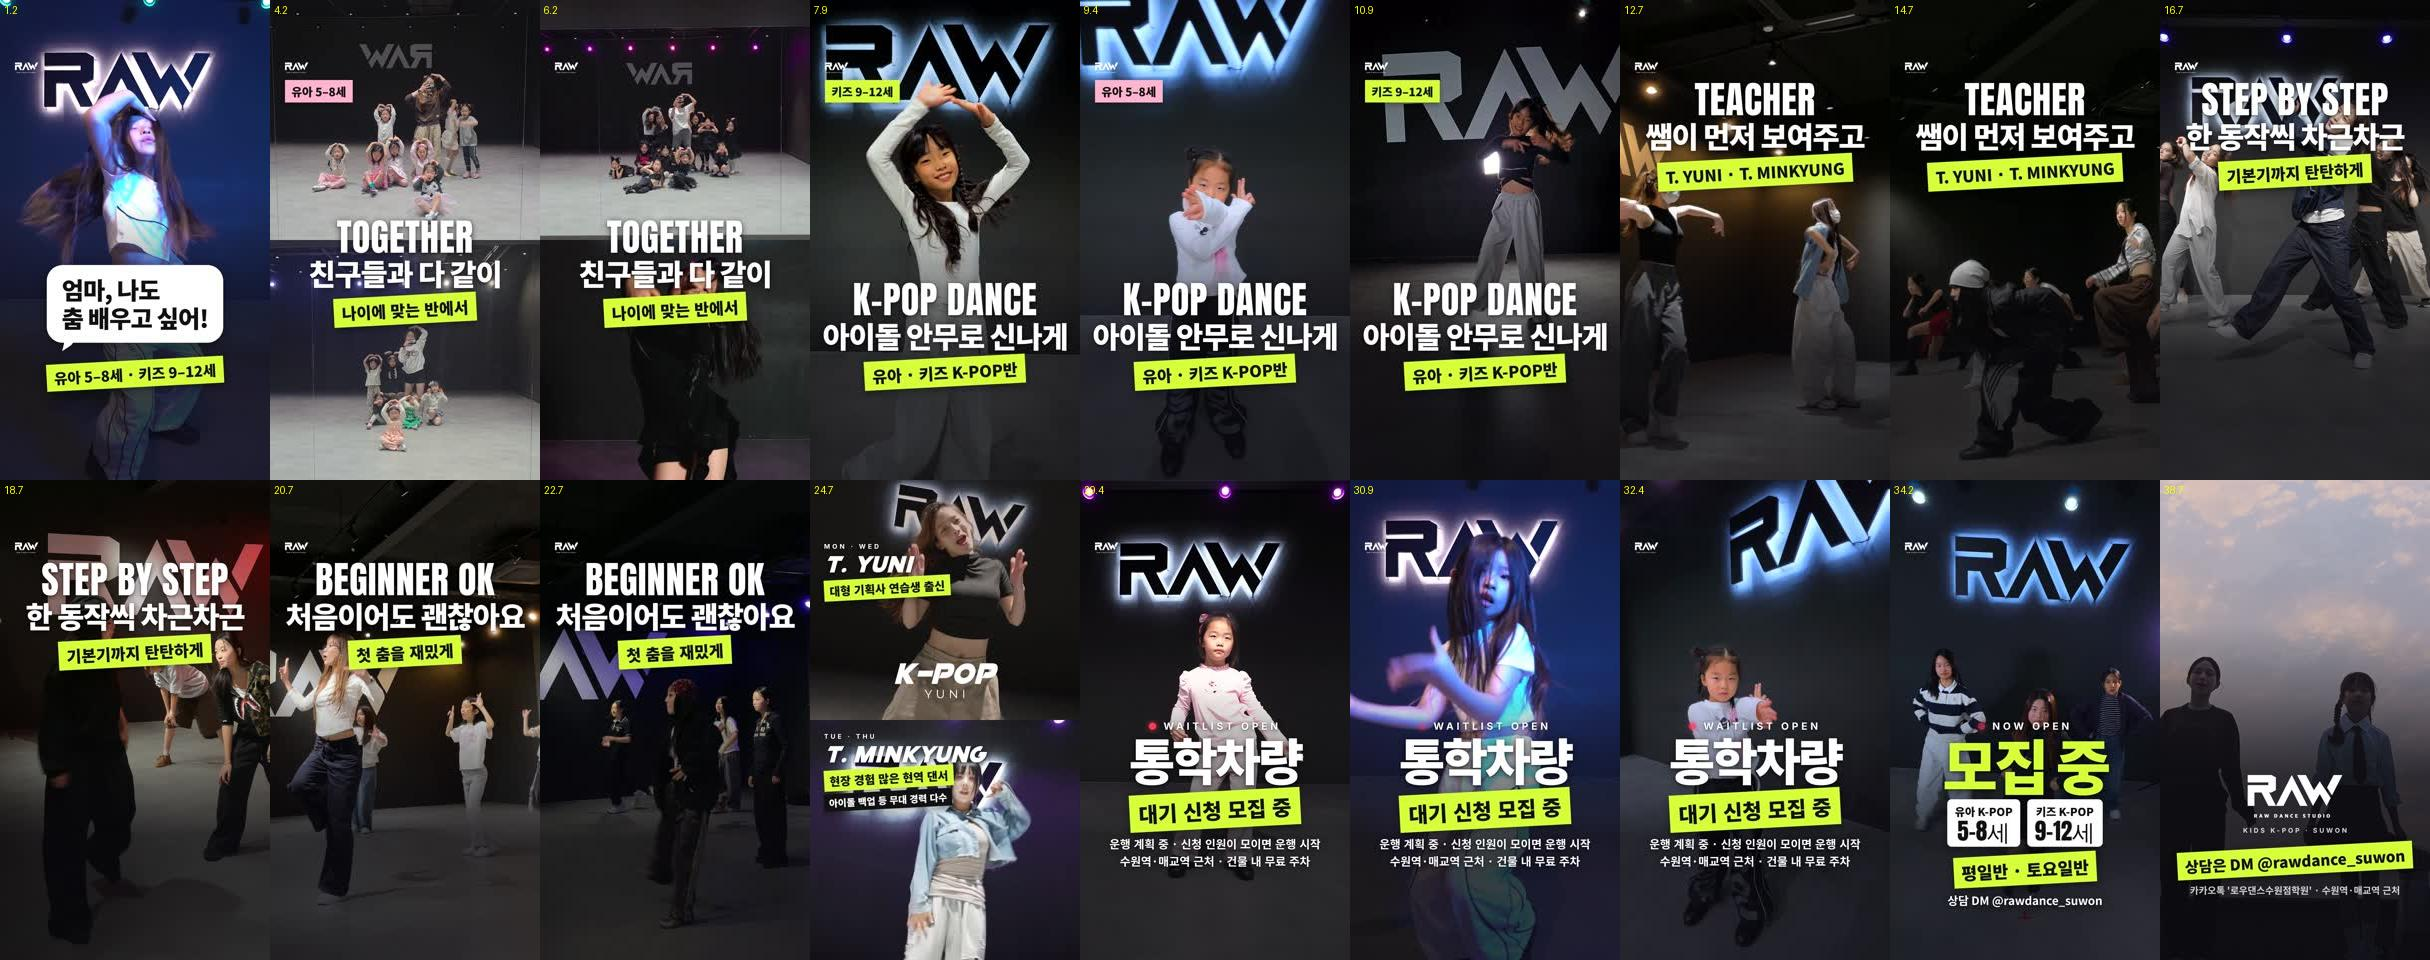
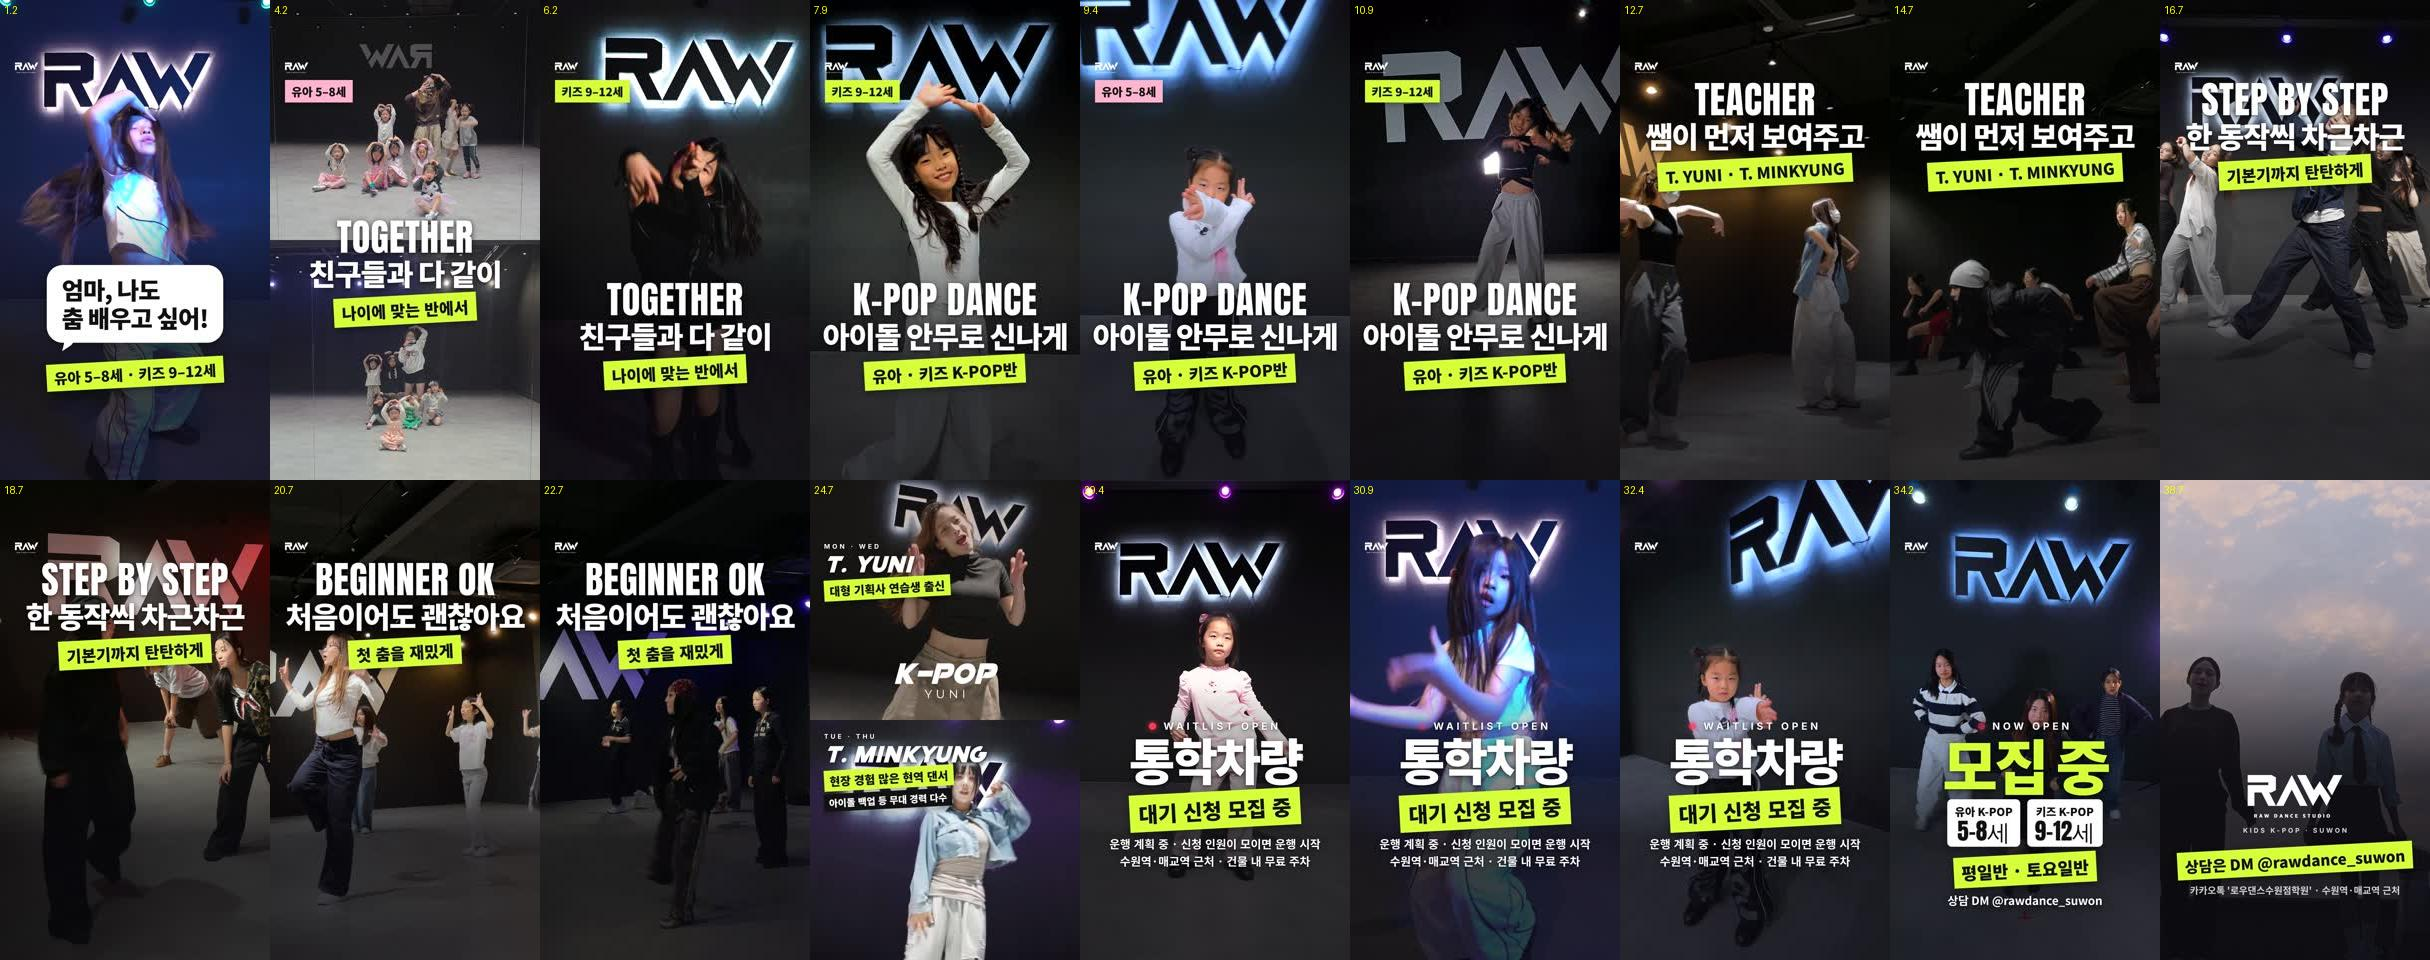
K-POP 광고 B2: 5~7초는 키즈 영상만 꽉 차게
Claude-Session: https://claude.ai/code/session_01CMPXWNa21Fqq6srPZpa27D

Changed region(s): [[0.216, 0.0312, 0.3395, 0.5]]

diff --git a/content/2026-11-20_kpop-kids-reels3/make_reels.py b/content/2026-11-20_kpop-kids-reels3/make_reels.py
@@ -181,7 +181,7 @@ elif WHICH == "B2":
     plan = [(6, ("fill", "clip3.mp4", pk("clip3.mp4", 2)[0]), {"kind": "bubble", "say": "엄마, 나도<br>춤 배우고 싶어!", "band": "유아 5–8세 · 키즈 9–12세"}),
             # 원장님 11-21 "친구들과 다 같이는 2분할로" → 위아래 2분할 2장 (하트 단체샷 3개 + 키즈 1컷)
             (4, ("split", ("nk3.mp4", 0.1), ("nk2.mp4", 0.0)), dict(K1, y=880, nogr=1, tag="유아 5–8세")),
-            (4, ("split", ("nk1.mp4", 0.1), ("1119_kids_insta.mp4", pk("1119_kids_insta.mp4", 2)[0] + 0.3)), dict(K1, y=880, nogr=1)),
+            k("1119_kids_insta.mp4", 0, 4, K1, "키즈 9–12세"),   # 원장님 11-21 "5~7초 아래 영상만" → 2분할 둘째 장은 키즈 영상만 꽉 차게
             k("1021_kids.mp4", 0, 3, K2, "키즈 9–12세"), k("1118_yua.mp4", 0, 3, K2, "유아 5–8세"), k("1104_kpop.mp4", 0, 3, K2, "키즈 9–12세"),
             (4, ("fill", "n5_img0316.mov", Y5[0], ZN5), T1), (4, ("fill", "m0415.mov", 8.5, (0.38, 0.66, 0.62)), T1),   # 11-21 "17초 상관없는 쌤" → 시퀀스26 빼고 민경쌤 IMG_0415
             (4, ("fill", "n10_c1912.mp4", 15.0), T2), (4, ("fill", "m1076.mov", 0.2, (0.42, 0.66, 0.68)), T2),

diff --git a/content/2026-11-20_kpop-kids-reels3/instagram.md b/content/2026-11-20_kpop-kids-reels3/instagram.md
@@ -92,7 +92,7 @@
 | 시간 | 화면 | 글자 |
 |---|---|---|
 | 0~3초 | 키즈반 아이 춤 (clip3) | 말풍선(••• 뒤 톡) "엄마, 나도 춤 배우고 싶어!" / 연두 띠 "유아 5–8세 · 키즈 9–12세" |
-| 3~7초 | 위아래 2분할 2장: 하트 단체샷 3개 + 키즈 1컷 (원장님 11-21 "2분할로") | "TOGETHER / 친구들과 다 같이 / 나이에 맞는 반에서" (유아·키즈 표시) |
+| 3~7초 | 위아래 2분할(유아 하트 단체샷 2개) → 키즈 1컷 꽉 차게 (원장님 11-21 "2분할로", "5~7초 아래 영상만") | "TOGETHER / 친구들과 다 같이 / 나이에 맞는 반에서" (유아·키즈 표시) |
 | 7~11.5초 | 키즈·유아 3컷 | "K-POP DANCE / 아이돌 안무로 신나게 / 유아 · 키즈 K-POP반" |
 | 11.5~23.5초 | 유니쌤(IMG_0316·C1912·IMG_1053)·민경쌤(IMG_0415·IMG_1076·IMG_0620) 번갈아 6컷 (원장님 11-21 "17초 상관없는 쌤" → 시퀀스26 뺌) | "TEACHER / 쌤이 먼저 보여주고 / T. YUNI · T. MINKYUNG" → "STEP BY STEP / 한 동작씩 차근차근 / 기본기까지 탄탄하게" → "BEGINNER OK / 처음이어도 괜찮아요 / 첫 춤을 재밌게" |
 | 23.5~28.5초 | 위 YUNI 티저 · 아래 MINKYUNG 티저 | 요일 · 이름 · 이력 |
